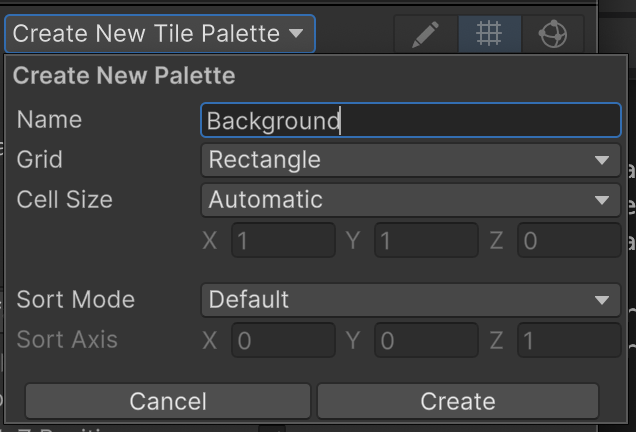
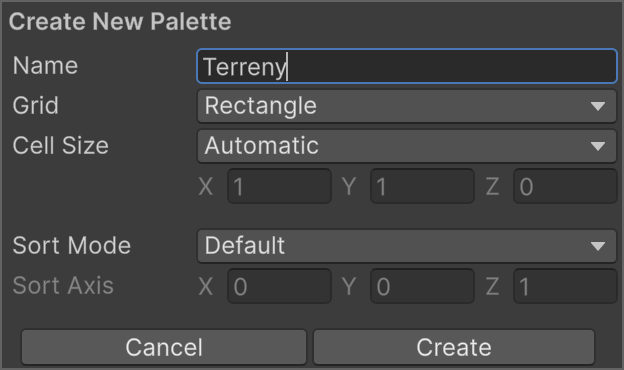
2D Plataformes: reescriu Tilemap i Tile Palette amb captures noves de Unity 6.6
- 01-Tilemap: passos nous per crear Grid/Ground, la paleta Terreny i pintar
  el terra; noms d'eines i diàlegs tal com surten a Unity; 15 captures noves
- Treu les notes sobre versions anteriors del tutorial i de Unity

Changed region(s): [[0.0, 0.0, 1.0, 1.0], [0.5481, 0.5351, 0.609, 0.5649], [0.3045, 0.7432, 0.3349, 0.8027]]

diff --git a/05-2D Plataformes/00-Assets.md b/05-2D Plataformes/00-Assets.md
@@ -1,6 +1,6 @@
 # Plataformes
 
-En aquest tema construirem un joc de plataformes 2D. Treballarem amb **Unity 6.6**, el nou **Input System** i la UI de Canvas (uGUI). Algunes captures antigues dels recursos poden tenir menús lleugerament diferents.
+En aquest tema construirem un joc de plataformes 2D. Treballarem amb **Unity 6.6**, el nou **Input System** i la UI de Canvas (uGUI).
 
 ## Ordre de treball
 
@@ -34,7 +34,7 @@ Les captures del nivell fan servir els sprites originals de **Simple 2D Platform
 
 Crea un nou projecte Unity "Universal 2D" anomenat "Platform".
 
-Si aquesta versió de la plantilla mostra un avís sobre **In App Purchasing 4**, obre Package Manager, selecciona aquest paquet i fes **Manage > Remove**. Aquest joc no utilitza compres integrades. No cal actualitzar tots els paquets per resoldre aquest avís.
+Si la plantilla mostra un avís sobre **In App Purchasing 4**, obre Package Manager, selecciona aquest paquet i fes **Manage > Remove**. Aquest joc no utilitza compres integrades. No cal actualitzar tots els paquets per resoldre aquest avís.
 
 ## Carpetes
 
@@ -49,7 +49,7 @@ Crea aquestes carpetes als **"Assets"**
 
 ## Decorat de profunditat
 
-Al [capítol 10](./10-Parallax.md) importarem **ParallaxTiles.zip**, amb els nous fons i l'eina per convertir-los en Tilemaps. [BackgroundImages.zip](./BackgroundImages.zip) conté només les imatges noves, per si les vols consultar; no cal importar-lo ara ni duplicar-lo amb el pack complet.
+Al [capítol 10](./10-Parallax.md) importarem **ParallaxTiles.zip**, amb els fons i l'eina per convertir-los en Tilemaps. [BackgroundImages.zip](./BackgroundImages.zip) conté només les imatges, per si les vols consultar; no cal importar-lo.
 
 ## Unity Asset Store
 

diff --git a/05-2D Plataformes/02-Player.md b/05-2D Plataformes/02-Player.md
@@ -191,7 +191,7 @@ public class PlayerJump : MonoBehaviour
 
 `jumpConsumed` impedeix tornar a saltar fins a aterrar. `DefaultExecutionOrder(-100)` fa que aquesta comprovació s'executi abans del moviment normal del jugador. No cal canviar l'ordre a Project Settings.
 
-**Amb aquests valors, el salt puja aproximadament 2,45 unitats.** Les dues primeres pujades del nivell de comprovació són de 2 unitats; deixa marge, no col·loquis les plataformes just a l'altura màxima. La velocitat inicial 10, amb massa 1, conserva l'impuls de 10 de l'exemple original. Mantén Espai als salts llargs quan activem l'altura variable al capítol 11.
+**Amb aquests valors, el salt puja aproximadament 2,45 unitats.** Les dues primeres pujades del nivell de comprovació són de 2 unitats; deixa marge, no col·loquis les plataformes just a l'altura màxima. Mantén Espai als salts llargs quan activem l'altura variable al capítol 11.
 
 Aquest és un **salt bàsic d'altura fixa**: una pulsació, un salt. Les ajudes per saltar una mica tard o abans d'aterrar s'explicaran al final del bloc.
 

diff --git a/05-2D Plataformes/08-GameOver.md b/05-2D Plataformes/08-GameOver.md
@@ -81,7 +81,6 @@ Abans de carregar l'escena restablim el temps a `1`. El HUD i la vida es reinici
 1. Desa Nivell01 amb **Ctrl+S / Cmd+S**.
 2. Obre **File > Build Profiles** i entra a **Scene List**.
 3. Fes **Add Open Scenes** i comprova que **Assets/Scenes/Nivell01.unity** està inclosa i marcada a la llista efectiva del perfil actiu. Si el perfil substitueix la llista global, afegeix-la també a la seva llista.
-4. En versions antigues de Unity, aquesta configuració era a **File > Build Settings > Scenes In Build**.
 
 El reinici carrega l'escena pel seu índex de compilació; una escena que no està inclosa no té un índex vàlid.
 

diff --git a/05-2D Plataformes/07-HUD.md b/05-2D Plataformes/07-HUD.md
@@ -6,7 +6,7 @@
 
 ## Canvas que s'adapta a la pantalla
 
-1. Fes **GameObject > UI (Canvas) > Canvas**. En versions anteriors, el menú es diu UI.
+1. Fes **GameObject > UI (Canvas) > Canvas**.
 2. Posa **Render Mode = Screen Space - Overlay**.
 3. A **Canvas Scaler**, posa **UI Scale Mode = Scale With Screen Size**, **Reference Resolution = 1280 × 720**, **Screen Match Mode = Match Width Or Height** i **Match = 0.5**.
 4. Conserva **Graphic Raycaster** i **EventSystem**.
